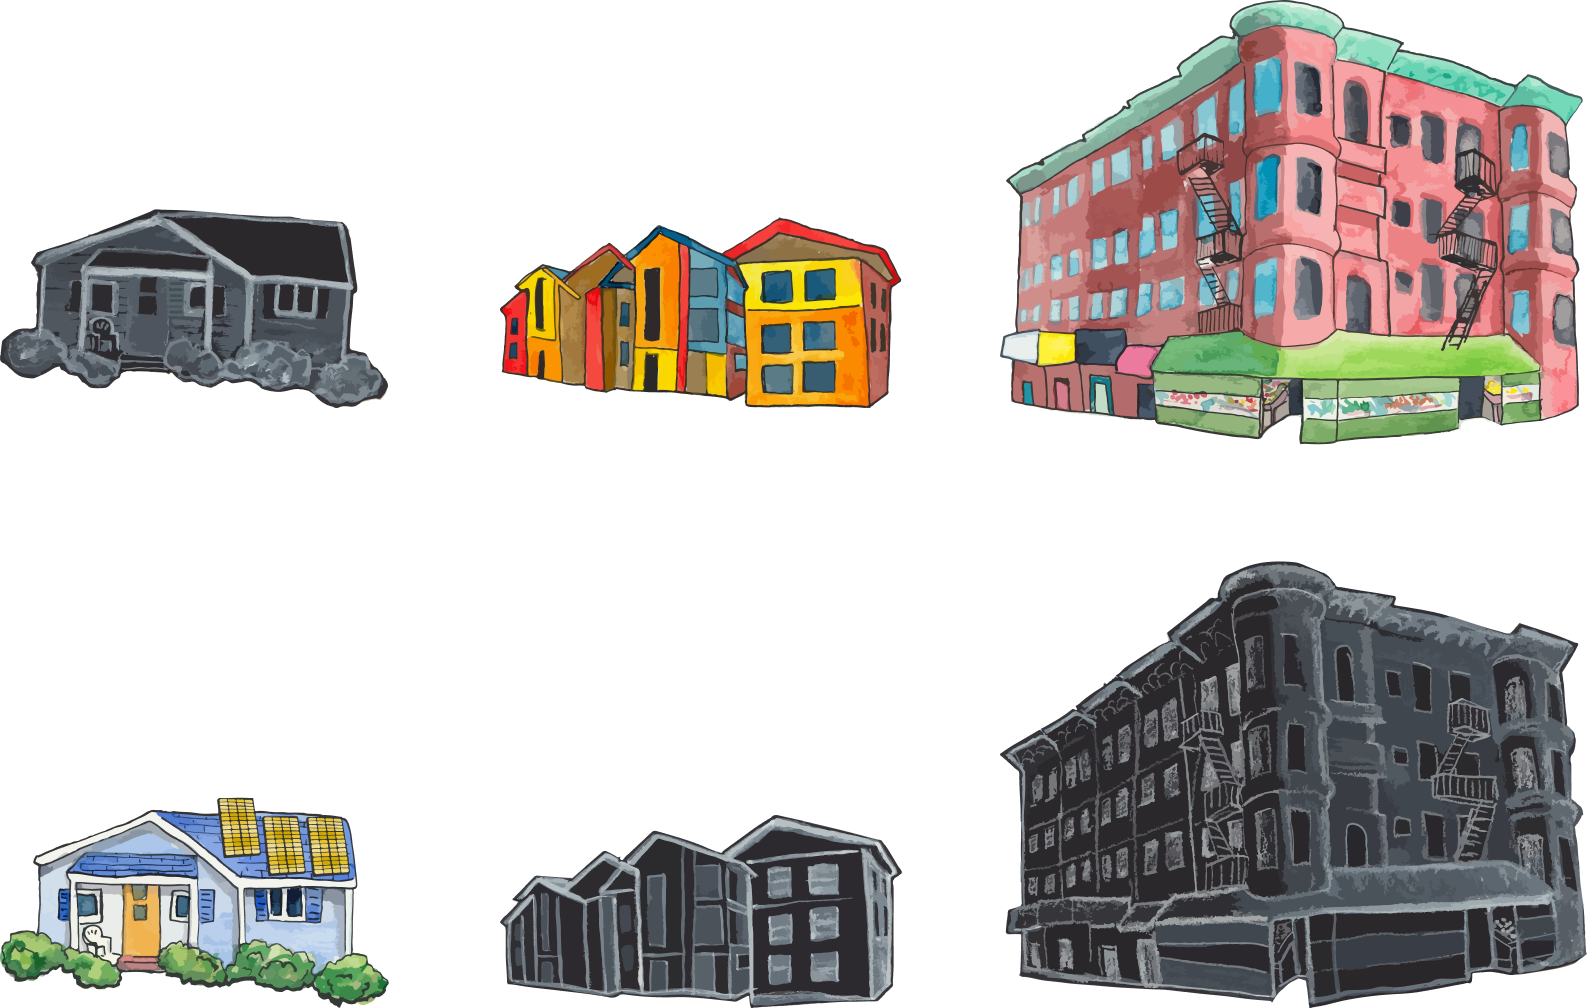
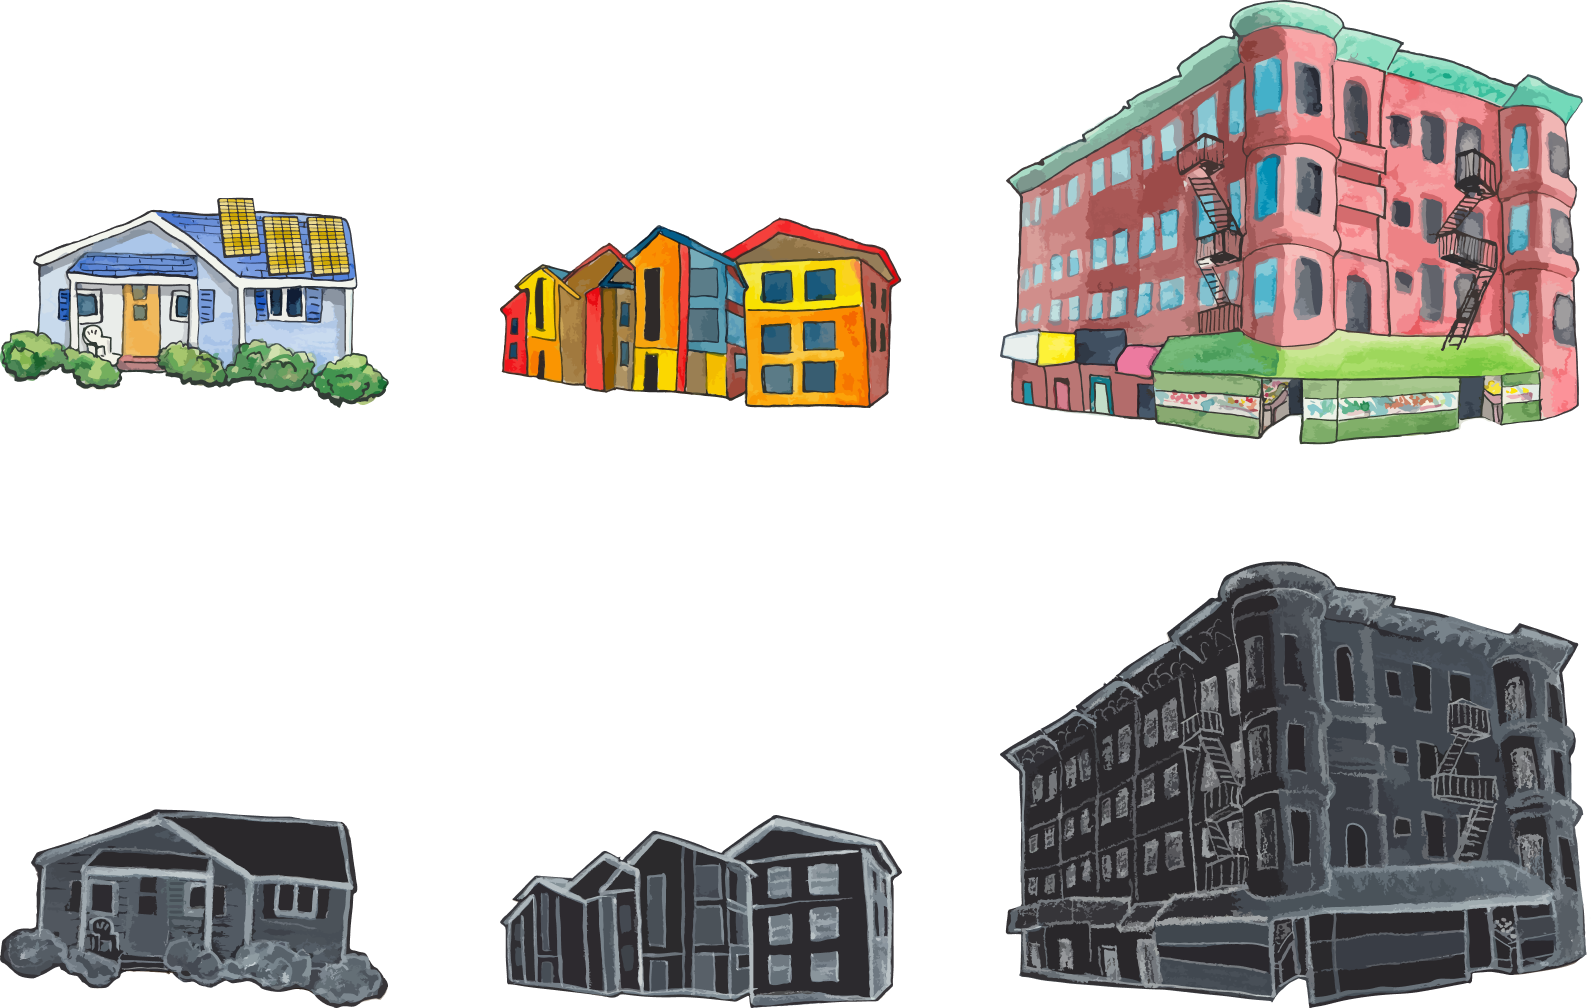
Fully move to new illustrations using spritesheets

Changed region(s): [[0.0, 0.1845, 0.2464, 0.3998], [0.0, 0.7688, 0.2464, 1.0]]

diff --git a/src/components/state-details.js b/src/components/state-details.js
@@ -383,17 +383,14 @@ export default function StateDetailsPage ({ location, data }) {
               <div className="col h3">
 
                 <p className="h2 mt-2 mb-0">
-                  <strong className="font-weight-bold">{buildingsPrcnt}%</strong> of {placeTitle}'s climate pollution comes from buildings.
+                  <strong>{buildingsPrcnt}%</strong>{" "}
+                  of {placeTitle}'s climate pollution comes from buildings.
                 </p>
 
-                <p className="mt-0 mb-8">
-                  <img
-                    className="img-fluid col-6"
-                    src={BuildingsSpritesheet}
-                    alt="Single family house"
-                  />
-                </p>
-
+                <div className="d-flex align-items-end justify-content-around mt-5">
+                  <div className="col-6 building-sheet -house"></div>
+                  <div className="col-6 building-sheet -apartments"></div>
+                </div>
               </div>
             </div>
 
@@ -402,12 +399,10 @@ export default function StateDetailsPage ({ location, data }) {
               We burn <strong>fossil fuels</strong> to <strong>heat</strong> our air, water, and food.
             </p>
 
-            <div className="mt-5 text-center">
-              <img
-                className="img-fluid col-6"
-                src={AppliancesSpritesheet}
-                alt="Single family house"
-              />
+            <div className="d-flex align-items-end justify-content-between mt-5">
+              <div className="appliance-sheet -stove"></div>
+              <div className="appliance-sheet -boiler"></div>
+              <div className="appliance-sheet -heater"></div>
             </div>
 
             <p className="h2 mt-6">
@@ -417,14 +412,6 @@ export default function StateDetailsPage ({ location, data }) {
             <p className="h2 mt-4 mb-6 text-right">
               Let's <strong>electrify</strong> our <strong>heat</strong>!
             </p>
-
-            <div className="mt-5 text-center">
-              <img
-                className="img-fluid col-6"
-                src={AppliancesSpritesheet}
-                alt="Single family house"
-              />
-            </div>
 
             <p className="h2 mt-6">
               We'll replace...
@@ -454,9 +441,20 @@ export default function StateDetailsPage ({ location, data }) {
               </ul>
             </p>
 
-            <p className="h2 mt-0 mb-4 float-right">
+            <div className="d-flex align-items-end justify-content-between mt-5 mb-5">
+              <div className="appliance-sheet -stove -clean"></div>
+              <div className="appliance-sheet -boiler -clean"></div>
+              <div className="appliance-sheet -heater -clean"></div>
+            </div>
+
+            <p className="h2 mt-0 mb-4 text-right">
               ...in all of {placeTitle}'s <strong>{buildingsCountStr} buildings</strong>.
             </p>
+
+            <div className="d-flex align-items-end justify-content-around mt-6">
+              <div className="col-6 building-sheet -house -clean"></div>
+              <div className="col-6 building-sheet -apartments -clean"></div>
+            </div>
 
             {(weightedEleBuildingsPct !== 0 ||
               weightedFossilBuildingsPct !== 0) && (
@@ -511,34 +509,29 @@ export default function StateDetailsPage ({ location, data }) {
                 <p className="h2 mt-2">
                   <strong className="font-weight-bold">{transportPrcnt}%</strong> of {placeTitle}'s
                   pollution comes from cars, trucks, trains, and planes.</p>
-                <p className="h2 mt-6 mb-6 float-right">
+                <p className="h2 mt-6 mb-6 text-right">
                   But <strong>mostly</strong> from cars.
                 </p>
               </div>
             </div>
 
-            <p className="mt-0 mb-8">
-              <img
-                className="img-fluid"
-                src={CarsSpritesheet}
-                alt="Gasoline car"
-              />
-            </p>
+            <div className="d-flex align-items-end justify-content-around flex-wrap mt-5">
+              <div className="col-5 car-sheet -car"></div>
+              <div className="col-6 car-sheet -truck"></div>
+              <div className="col-8 car-sheet -semi mt-5"></div>
+            </div>
 
             <p className="h2 mt-6">
               To cut this pollution...
             </p>
 
-            <p className="h2 mt-4 mb-6 float-right">
+            <p className="h2 mt-4 mb-6 text-right">
               Your next car must be <strong>electric</strong>.
             </p>
 
-            <p className="mt-5 mb-6">
-              <img
-                className="img-fluid"
-                src={CarsSpritesheet}
-                alt="Electric car"
-              />
+            <p className="col-12 h5">
+              Or try going car-free with public transit, bikes/e-bikes, or
+              walking if it works for you.
             </p>
 
             <p className="h2 mt-8">
@@ -546,10 +539,11 @@ export default function StateDetailsPage ({ location, data }) {
               {placeTitle}!
             </p>
 
-            <p className="mt-5">
-              (Or have folks try going car-free with public transit,
-                bikes/e-bikes, or walking if it works for you.)
-            </p>
+            <div className="d-flex align-items-end justify-content-around flex-wrap mt-5">
+              <div className="col-5 car-sheet -car -clean"></div>
+              <div className="col-6 car-sheet -truck -clean"></div>
+              <div className="col-8 car-sheet -semi -clean mt-5"></div>
+            </div>
 
             <p className="mt-5">
                 There are {carsCountStr} vehicles in {placeTitle} and {evCountStr}{" "}
@@ -602,16 +596,14 @@ export default function StateDetailsPage ({ location, data }) {
                     pollution comes from burning <strong>coal</strong>, <strong>gas</strong>, and <strong>oil</strong> to
                     make power.
                   </p>
-                  <p className="mt-4 mb-6">
-                    <div className="h3 mt-5 font-weight-bold">
-                      <img
-                        className="img-fluid"
-                        src={DirtyPowerPlantImg}
-                        alt="Dirty power plant"
-                      />
-                    </div>
-                  </p>
 
+                  <div className="mt-5 text-center">
+                    <img
+                      className="img-fluid col-6"
+                      src={DirtyPowerPlantImg}
+                      alt="Dirty power plant"
+                    />
+                  </div>
                 </div>
               </div>
 
@@ -619,17 +611,13 @@ export default function StateDetailsPage ({ location, data }) {
               To cut this pollution...
               </p>
 
-              <p className="h2 mt-4 mb-6 float-right">
+              <p className="h2 mt-4 mb-6 text-right">
                 Put <strong>solar panels</strong> on your roof!
               </p>
 
-              <p className="mt-5 mb-6">
-                <img
-                  className="img-fluid"
-                  src={BuildingsSpritesheet}
-                  alt="Single family home with solar panels"
-                />
-              </p>
+              <div className="d-flex justify-content-center">
+                <div className="building-sheet -house -clean col-8"></div>
+              </div>
 
               <p className="h2 mt-8">
                 Then, we'll replace <strong>all fossil fuel power plants</strong> with solar and wind farms.
@@ -649,6 +637,8 @@ export default function StateDetailsPage ({ location, data }) {
               <p className="h3 mt-5 mb-8">
                 ...and find good jobs for those workers.
               </p>
+
+              <h3 className="h5">Current Fossil Fuel Power Plants in {placeTitle}</h3>
 
               {coalPlants.length > 0 && (
                 <>

diff --git a/src/styles/global.css b/src/styles/global.css
@@ -352,3 +352,108 @@ footer a {
 }
 
 .data-modal-body { max-height: 40vh; }
+
+/**
+ * Spritesheet styling
+ */
+.appliance-sheet, .building-sheet, .car-sheet {
+    aspect-ratio:  1;
+    background-repeat: no-repeat;
+    /* For testing */
+    /*border: dashed 2px grey;*/
+}
+
+/** 3X2 sheet */
+.appliance-sheet {
+    background-image: url("../images/appliances-sheet.png");
+    background-size: auto 200%;
+    height: 20rem;
+}
+
+.appliance-sheet.-boiler {
+    aspect-ratio: 1/3;
+    background-position: -1.5% 103%;
+}
+
+.appliance-sheet.-boiler.-clean {
+    background-position: -1.5% -2%;
+}
+
+.appliance-sheet.-stove {
+    background-position: 43.5% 102%;
+    aspect-ratio: 1/2;
+}
+
+.appliance-sheet.-stove.-clean {
+    background-position: 43.5% -2%;
+}
+
+.appliance-sheet.-heater {
+    background-position: 100% 102%;
+    aspect-ratio: 1/1.5;
+}
+
+.appliance-sheet.-heater.-clean {
+    background-position: 102% 18%;
+}
+
+/** 3X2 sheet */
+.building-sheet {
+    background-image: url("../images/buildings-sheet.png");
+    background-size: auto 200%;
+}
+
+.building-sheet.-house {
+    aspect-ratio: 2;
+    background-size: 300%;
+    background-position: -7% 102%;
+}
+
+.building-sheet.-house.-clean {
+    background-position: -7% 20%;
+}
+
+.building-sheet.-apartments {
+    aspect-ratio: 1/0.8;
+    background-position: 102% 104%;
+}
+
+.building-sheet.-apartments.-clean {
+    background-position: 102% -8%;
+}
+
+
+/** 2X4 sheet */
+.car-sheet {
+    background-image: url("../images/cars-sheet.png");
+    background-size:  auto 400%;
+}
+
+.car-sheet.-car {
+    background-size: 300% auto;
+    aspect-ratio: 1/0.5;
+    background-position: -4% -4%;
+}
+
+.car-sheet.-car.-clean {
+    background-position: 92% -7%;
+}
+
+.car-sheet.-truck {
+    background-position: 0% 28%;
+    aspect-ratio: 1/0.48;
+}
+
+.car-sheet.-truck.-clean {
+    background-position: 100% 28%;
+}
+
+.car-sheet.-semi {
+    aspect-ratio: 1/0.35;
+    background-position: 0% 58%;
+    background-size: auto 500%;
+}
+
+.car-sheet.-semi.-clean {
+    background-position: 100% 58%;
+}

diff --git a/src/components/displayplants.js b/src/components/displayplants.js
@@ -21,7 +21,7 @@ const DisplayPlants = ({ plants, plantImage }) => {
           if (index === MaxIcons) {
             return (
               <div key={hash(plant)}
-                className="h4 text-center text-lg-left col-6 col-lg-5 pl-4 pt-2">
+                className="h4 text-center text-muted text-lg-left col-6 col-lg-5 pl-4 pt-2">
                 ...and {plants.length - MaxIcons} more
               </div>)
           }
